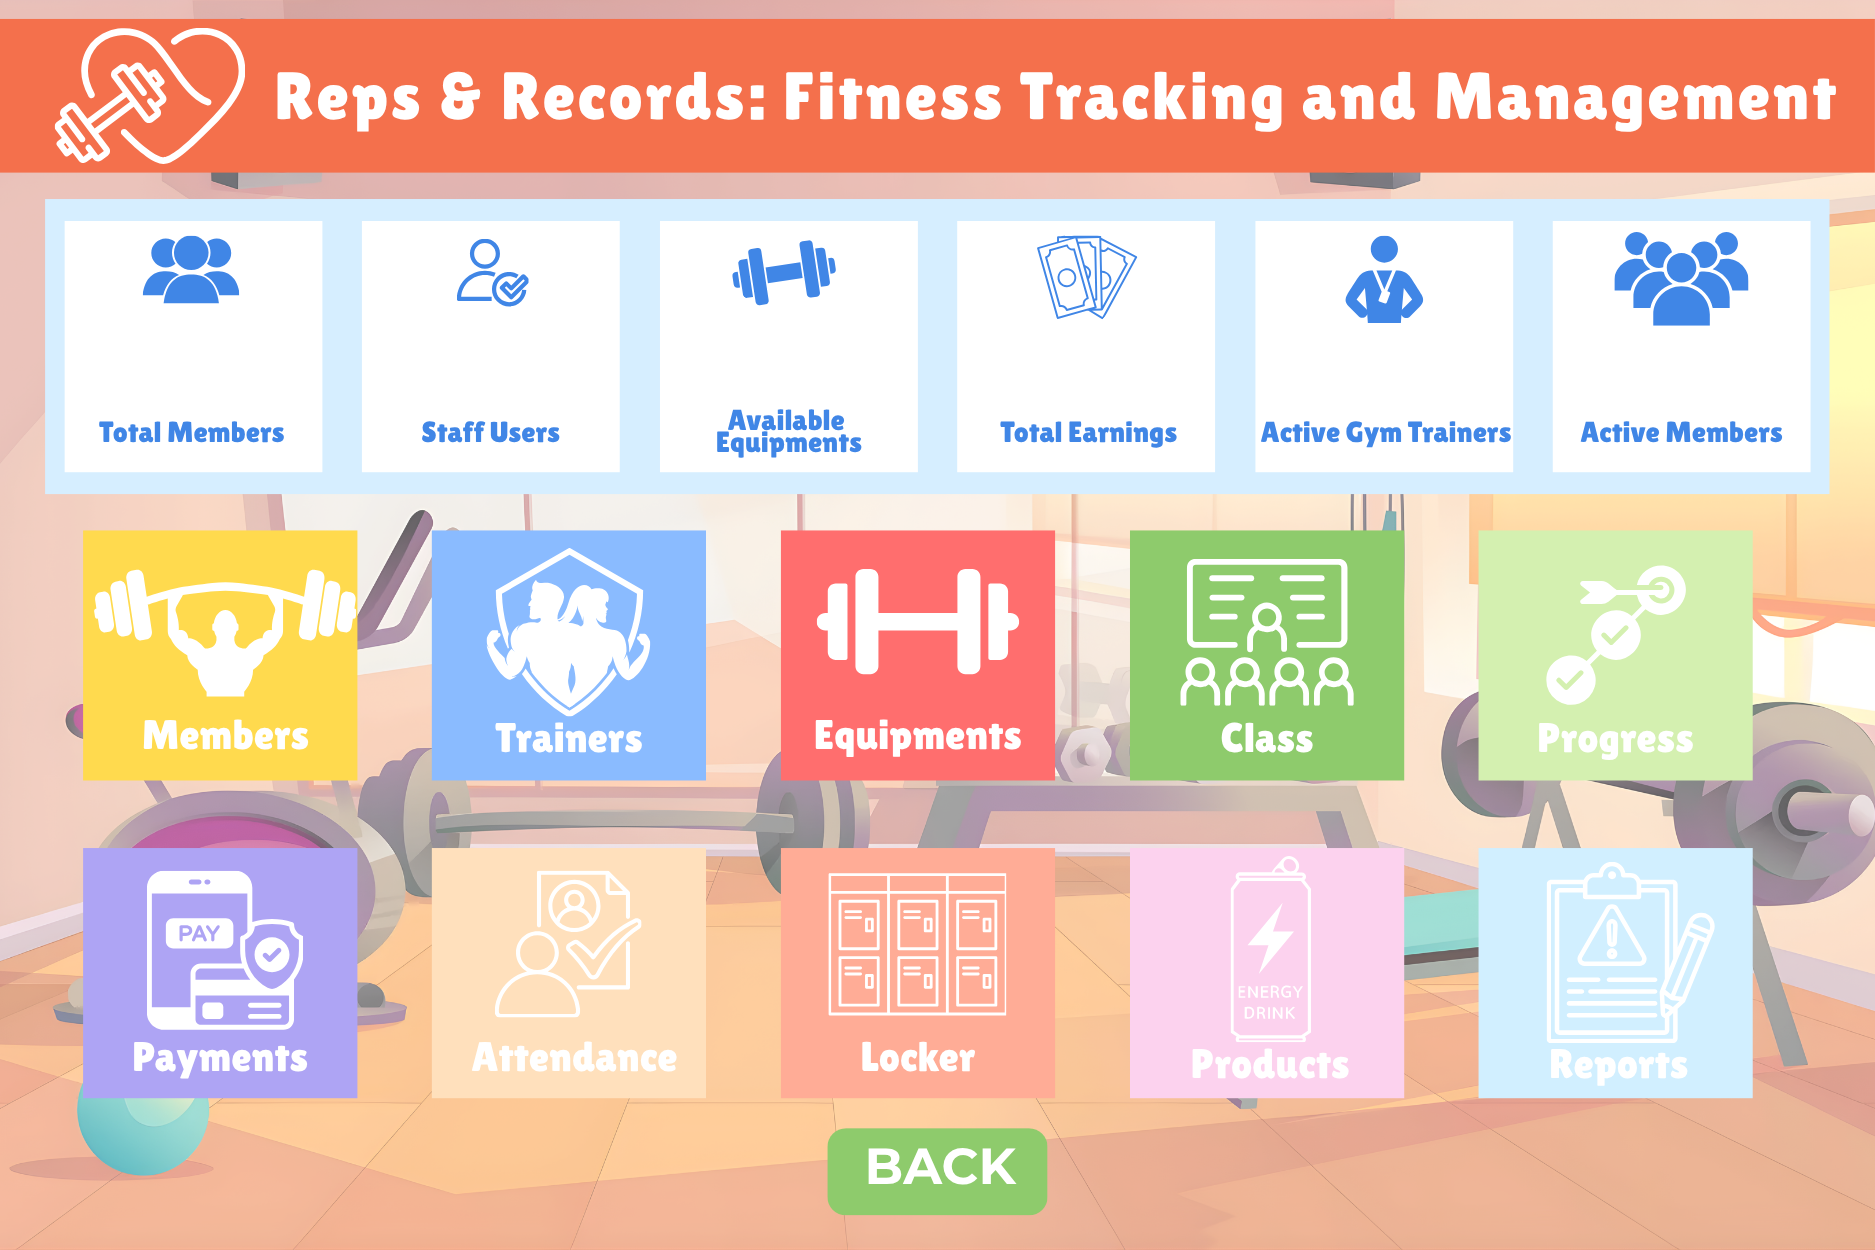
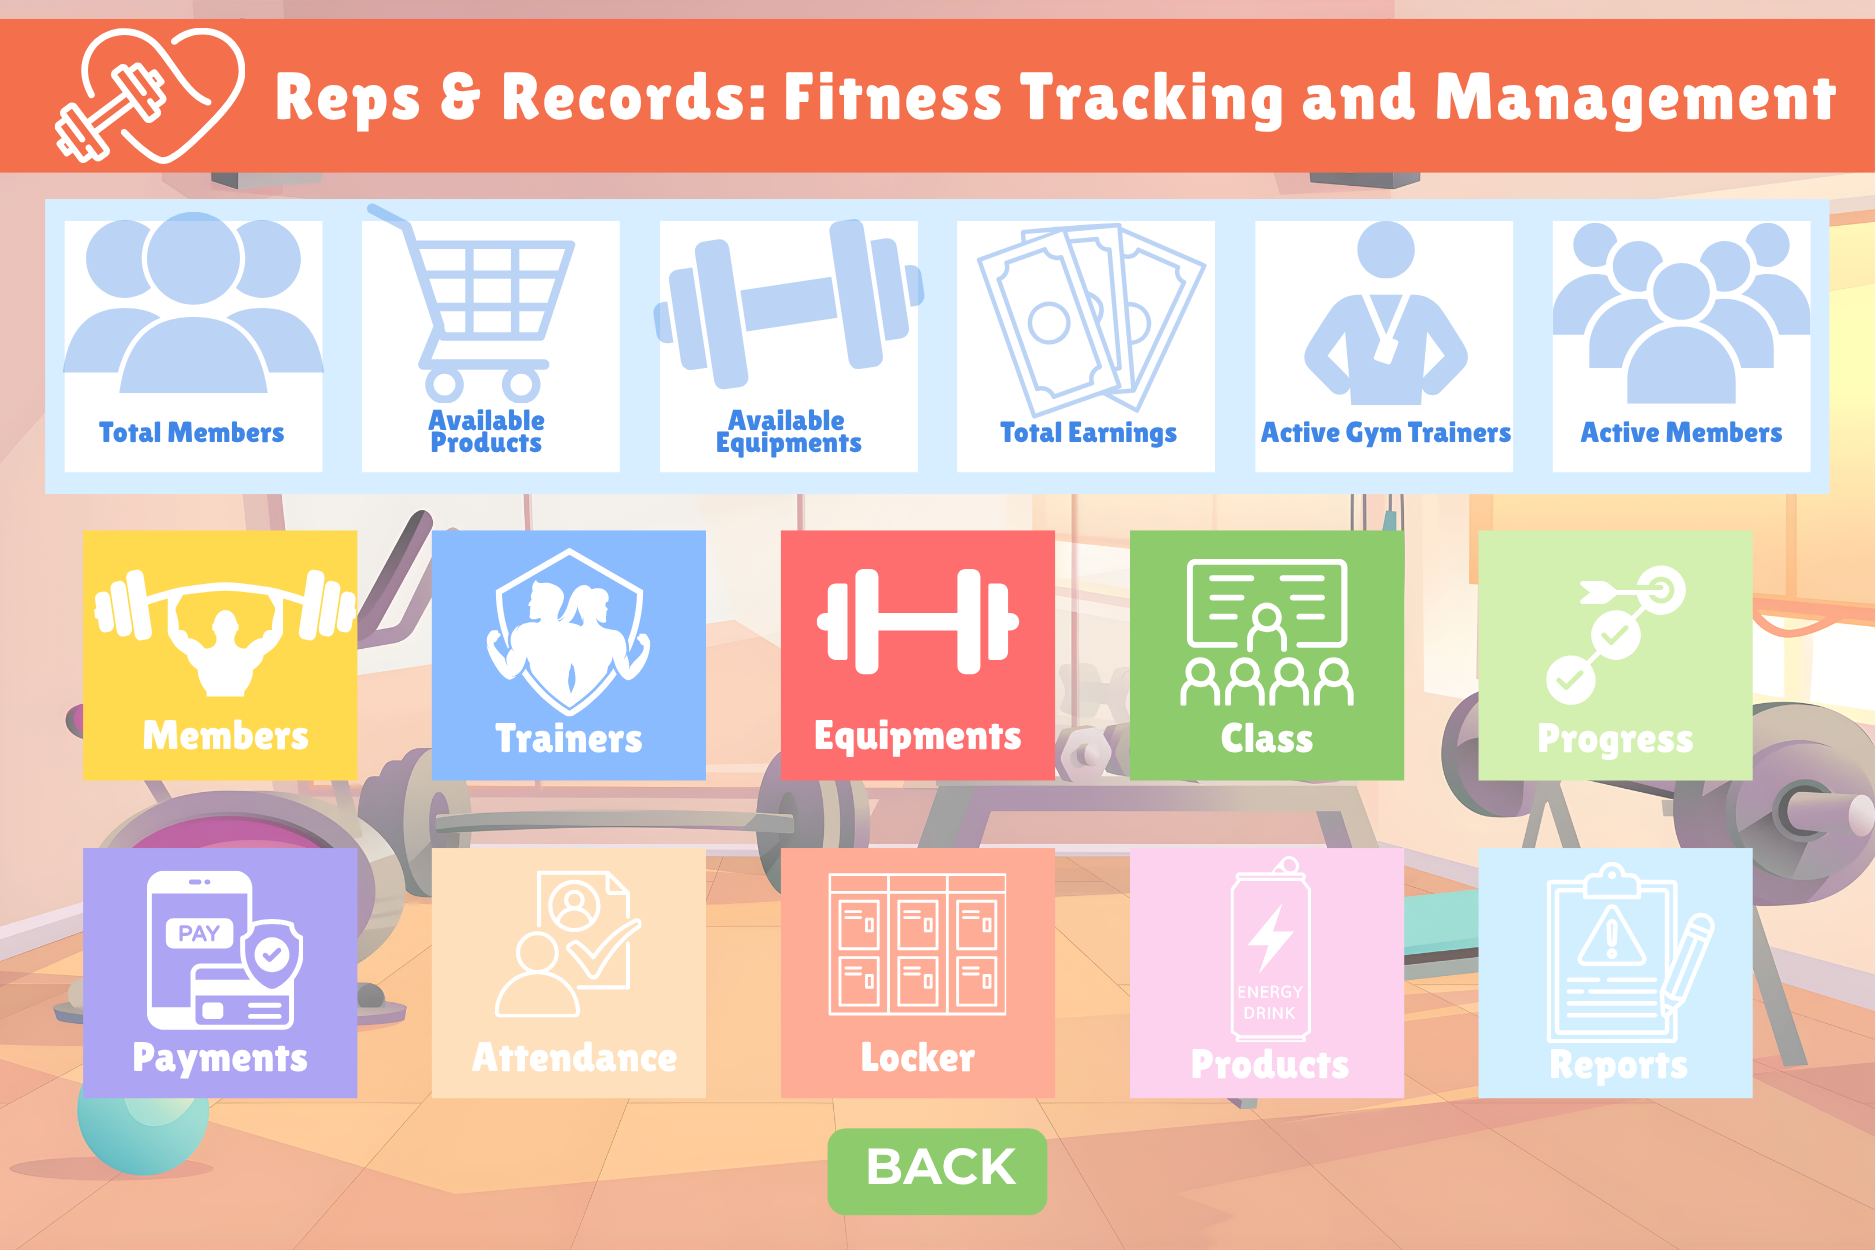
main menu upper dashboard all working

diff --git a/src/main/java/com/gymdb/controller/MainMenuController.java b/src/main/java/com/gymdb/controller/MainMenuController.java
@@ -10,7 +10,6 @@ import javafx.scene.Scene;
 import javafx.scene.control.Button;
 import javafx.scene.control.TextArea;
 import javafx.stage.Stage;
-import javafx.stage.WindowEvent;
 
 import java.io.IOException;
 
@@ -30,7 +29,7 @@ public class MainMenuController {
 
     // TextAreas for stats
     @FXML private TextArea totalMembersField;
-    @FXML private TextArea staffUsersField;
+    @FXML private TextArea availableProductsField; // RENAMED
     @FXML private TextArea availableEquipmentsField;
     @FXML private TextArea totalEarningsField;
     @FXML private TextArea activeTrainersField;
@@ -40,12 +39,13 @@ public class MainMenuController {
     private GymPersonnelCRUD gymPersonnelCRUD = new GymPersonnelCRUD();
     private EquipmentCRUD equipmentCRUD = new EquipmentCRUD();
     private PaymentCRUD paymentCRUD = new PaymentCRUD();
+    private ProductCRUD productCRUD = new ProductCRUD(); // NEW
 
     @FXML
     public void initialize() {
         // Make stats non-editable
         totalMembersField.setEditable(false);
-        staffUsersField.setEditable(false);
+        availableProductsField.setEditable(false);
         availableEquipmentsField.setEditable(false);
         totalEarningsField.setEditable(false);
         activeTrainersField.setEditable(false);
@@ -55,22 +55,20 @@ public class MainMenuController {
         javafx.application.Platform.runLater(this::refreshStats);
     }
 
-
-
     public void refreshStats() {
         try {
             int totalMembers = memberCRUD.getAllRecords().size();
-            int activeMembers = memberCRUD.getActiveMembers().size();  // implement this method
-            int staffUsers = gymPersonnelCRUD.getAllRecords().size();
-            int activeTrainers = gymPersonnelCRUD.getActiveTrainers().size(); // implement this method
-            int availableEquipments = equipmentCRUD.getAvailableEquipments().size(); // implement this
-            double totalEarnings = paymentCRUD.getTotalEarnings(); // sum all payment amounts
+            int activeMembers = memberCRUD.getActiveMembers().size();
+            int activeTrainers = gymPersonnelCRUD.getActiveTrainers().size();
+            int availableEquipments = equipmentCRUD.getAvailableEquipments().size();
+            int availableProducts = productCRUD.getTotalProducts(); // NOW mapped correctly
+            double totalEarnings = paymentCRUD.getTotalEarnings();
 
             totalMembersField.setText(String.valueOf(totalMembers));
             activeMembersField.setText(String.valueOf(activeMembers));
-            staffUsersField.setText(String.valueOf(staffUsers));
             activeTrainersField.setText(String.valueOf(activeTrainers));
             availableEquipmentsField.setText(String.valueOf(availableEquipments));
+            availableProductsField.setText(String.valueOf(availableProducts)); // SHOW products here
             totalEarningsField.setText("₱" + totalEarnings);
 
         } catch (Exception ex) {

diff --git a/src/main/java/com/gymdb/controller/ClassController.java b/src/main/java/com/gymdb/controller/ClassController.java
@@ -43,7 +43,6 @@ public class ClassController {
         colScheduleDate.setCellValueFactory(data -> data.getValue().scheduleDateProperty());
         colStartTime.setCellValueFactory(data -> data.getValue().startTimeProperty());
         colEndTime.setCellValueFactory(data -> data.getValue().endTimeProperty());
-        colPersonnelID.setCellValueFactory(data -> data.getValue().personnelIDProperty().asObject());
         colEnrolled.setCellValueFactory(data -> data.getValue().enrolledProperty().asObject());
 
         loadTableData();
@@ -105,7 +104,6 @@ public class ClassController {
         private final javafx.beans.property.StringProperty scheduleDate;
         private final javafx.beans.property.StringProperty startTime;
         private final javafx.beans.property.StringProperty endTime;
-        private final javafx.beans.property.IntegerProperty personnelID;
         private final javafx.beans.property.IntegerProperty enrolled;
 
         public GymClassTableRow(int classID, String className, String scheduleDate,
@@ -115,7 +113,6 @@ public class ClassController {
             this.scheduleDate = new javafx.beans.property.SimpleStringProperty(scheduleDate);
             this.startTime = new javafx.beans.property.SimpleStringProperty(startTime);
             this.endTime = new javafx.beans.property.SimpleStringProperty(endTime);
-            this.personnelID = new javafx.beans.property.SimpleIntegerProperty(personnelID);
             this.enrolled = new javafx.beans.property.SimpleIntegerProperty(enrolled);
         }
 
@@ -124,7 +121,6 @@ public class ClassController {
         public javafx.beans.property.StringProperty scheduleDateProperty() { return scheduleDate; }
         public javafx.beans.property.StringProperty startTimeProperty() { return startTime; }
         public javafx.beans.property.StringProperty endTimeProperty() { return endTime; }
-        public javafx.beans.property.IntegerProperty personnelIDProperty() { return personnelID; }
         public javafx.beans.property.IntegerProperty enrolledProperty() { return enrolled; }
     }
 }

diff --git a/src/main/java/com/gymdb/model/ProductCRUD.java b/src/main/java/com/gymdb/model/ProductCRUD.java
@@ -110,8 +110,24 @@ public class ProductCRUD {
         }
     }
 
+    // -------------------- UPDATED METHOD --------------------
+    public int getTotalProducts() {
+        String sql = "SELECT SUM(stockQty) AS total FROM Product"; // sum stockQty
+        try (Connection conn = DBConnection.getConnection();
+             Statement stmt = conn.createStatement();
+             ResultSet rs = stmt.executeQuery(sql)) {
+
+            if (rs.next()) {
+                return rs.getInt("total"); // total units in stock
+            }
+
+        } catch (SQLException e) {
+            System.err.println(e.getMessage());
+        }
+        return 0;
+    }
+
     // TESTER
-    // NOTE: only works when you have sample data.
     public static void main(String[] args) {
         ProductCRUD crud = new ProductCRUD();
 
@@ -131,5 +147,7 @@ public class ProductCRUD {
 
         System.out.println("\nDeleting productID = 4");
         System.out.println(crud.delRecord(4) ? "Record deleted." : "Delete failed.");
+
+        System.out.println("\nTotal products in stock: " + crud.getTotalProducts());
     }
 }

diff --git a/src/main/java/com/gymdb/model/MemberCRUD.java b/src/main/java/com/gymdb/model/MemberCRUD.java
@@ -188,12 +188,16 @@ public class MemberCRUD {
     }
     public List<Member> getActiveMembers() {
         List<Member> active = new ArrayList<>();
+        LocalDate today = LocalDate.now();
+
         for (Member m : getAllRecords()) {
-            // Assuming you have a membership status field or use membershipType to check "Active"
-            if (m.membershipType() != null && m.membershipType().equalsIgnoreCase("Active")) {
-                active.add(m);
+            if (m.startDate() != null && m.endDate() != null) {
+                if (( !today.isBefore(m.startDate()) ) && ( !today.isAfter(m.endDate()) )) {
+                    active.add(m);
+                }
             }
         }
+
         return active;
     }
 }
